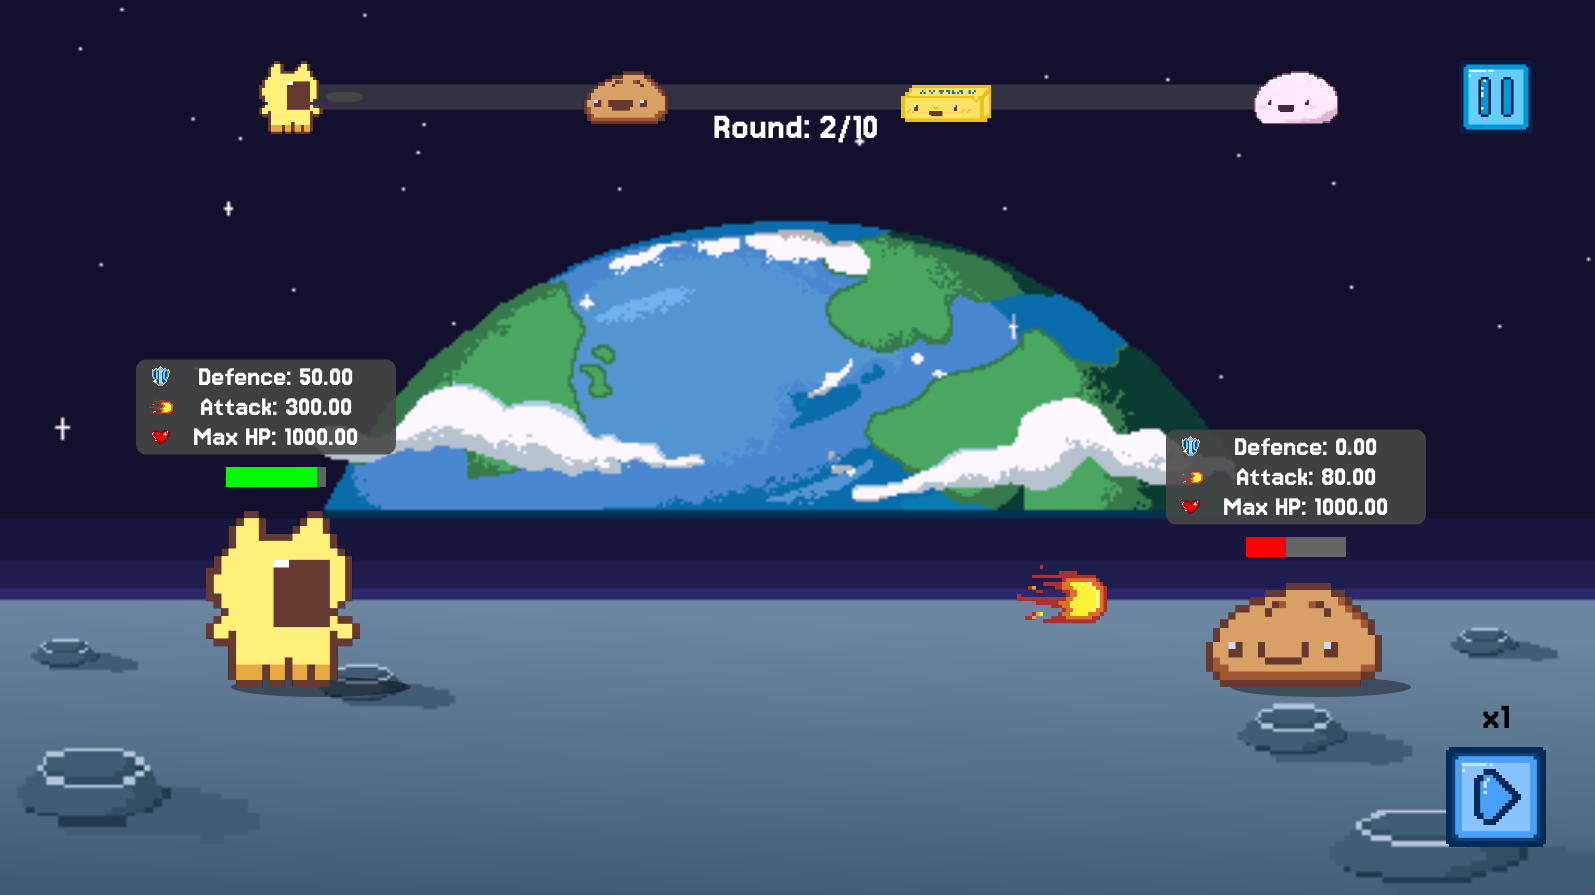
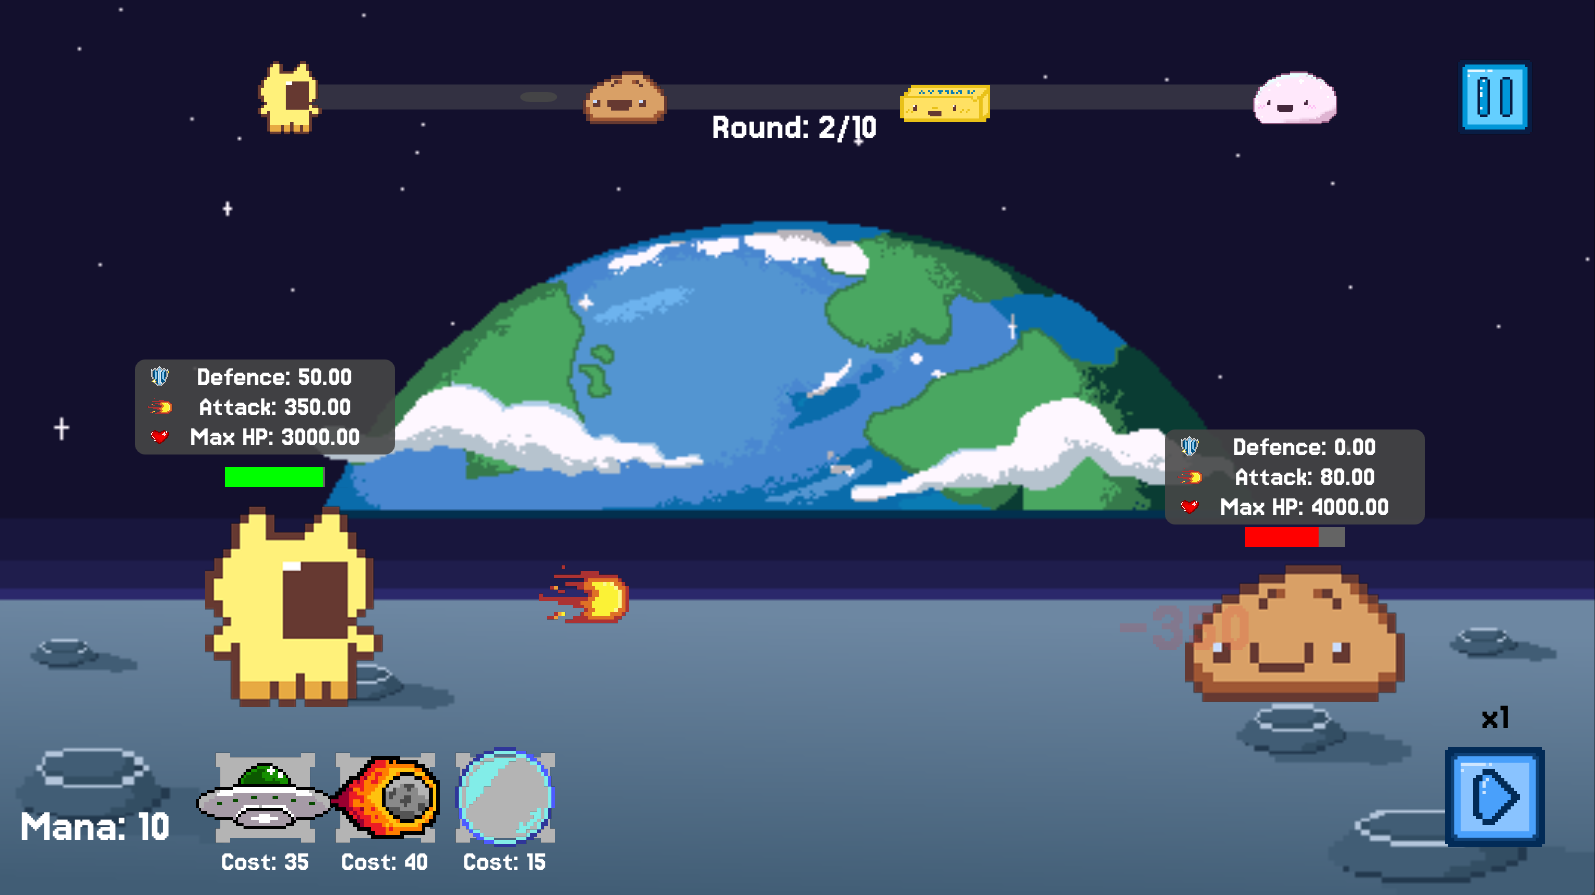
updated controls screen with latest visuals
- updated both controls.c and settingscontrols.c with the latest visuals

diff --git a/settingscontrols.c b/settingscontrols.c
@@ -13,8 +13,7 @@ CP_Image controls_right_arrow;
 CP_Image controls_gameplay;
 CP_Image controls_speed;
 CP_Image controls_upgrades;
-CP_Image controls_skill_uncharged;
-CP_Image controls_skill_charged;
+CP_Image controls_skills;
 
 int settings_controls_page = 1;
 extern bool is_controls;
@@ -34,8 +33,7 @@ void Settings_Controls_Init(void)
     controls_speed = CP_Image_Load("./Assets/controls-speed.png");
     controls_upgrades = CP_Image_Load("./Assets/controls-upgrades.png");
 
-    controls_skill_uncharged = CP_Image_Load("./Assets/controls-skills-uncharged.png");
-    controls_skill_charged = CP_Image_Load("./Assets/controls-skills-charged.png");
+    controls_skills = CP_Image_Load("./Assets/controls-skills.png");
 
     settings_controls_page = 1;
     is_controls = true;
@@ -90,15 +88,14 @@ void Settings_Controls_Update(void)
             CP_Font_DrawText("Your chosen upgrade stacks until the end of the game.", 800.0f, 590.0f);
         }
 
-        // page 4: player skill
+        // page 4: player skills
         else if (settings_controls_page == 4)
         {
-            CP_Image_Draw(controls_skill_uncharged, 610, 350, 370, 208, 255);
-            CP_Image_Draw(controls_skill_charged, 990, 350, 370, 208, 255);
+            CP_Image_Draw(controls_skills, 800, 350, 650, 350, 255);
 
             CP_Settings_TextSize(25);
-            CP_Font_DrawText("The player skill charges after every 2 rounds.", 800.0f, 555.0f);
-            CP_Font_DrawText("Click the skill when it lights up to damage the enemy.", 800.0f, 590.0f);
+            CP_Font_DrawText("Use mana to activate skills during combat.", 800.0f, 555.0f);
+            CP_Font_DrawText("Each skill has a different mana cost and effect.", 800.0f, 590.0f);
         }
 
         // page number

diff --git a/controls.c b/controls.c
@@ -12,8 +12,7 @@ CP_Image controls_right_arrow;
 CP_Image controls_gameplay;
 CP_Image controls_speed;
 CP_Image controls_upgrades;
-CP_Image controls_skill_uncharged;
-CP_Image controls_skill_charged;
+CP_Image controls_skills;
 
 int controls_page = 1;
 
@@ -32,8 +31,7 @@ void Controls_Init(void)
     controls_speed = CP_Image_Load("./Assets/controls-speed.png");
     controls_upgrades = CP_Image_Load("./Assets/controls-upgrades.png");
 
-    controls_skill_uncharged = CP_Image_Load("./Assets/controls-skills-uncharged.png");
-    controls_skill_charged = CP_Image_Load("./Assets/controls-skills-charged.png");
+    controls_skills = CP_Image_Load("./Assets/controls-skills.png");
 
     controls_page = 1;
 
@@ -84,15 +82,14 @@ void Controls_Update(void)
         CP_Font_DrawText("Your chosen upgrade stacks until the end of the game.", 800.0f, 590.0f);
     }
 
-    // page 4: player skill
+    // page 4: player skills
     else if (controls_page == 4)
     {
-        CP_Image_Draw(controls_skill_uncharged, 610, 350, 370, 208, 255);
-        CP_Image_Draw(controls_skill_charged, 990, 350, 370, 208, 255);
+        CP_Image_Draw(controls_skills, 800, 350, 650, 350, 255);
 
         CP_Settings_TextSize(25);
-        CP_Font_DrawText("The player skill charges after every 2 rounds.", 800.0f, 555.0f);
-        CP_Font_DrawText("Click the skill when it lights up to damage the enemy.", 800.0f, 590.0f);
+        CP_Font_DrawText("Use mana to activate skills during combat.", 800.0f, 555.0f);
+        CP_Font_DrawText("Each skill has a different mana cost and effect.", 800.0f, 590.0f);
     }
 
     // page number
